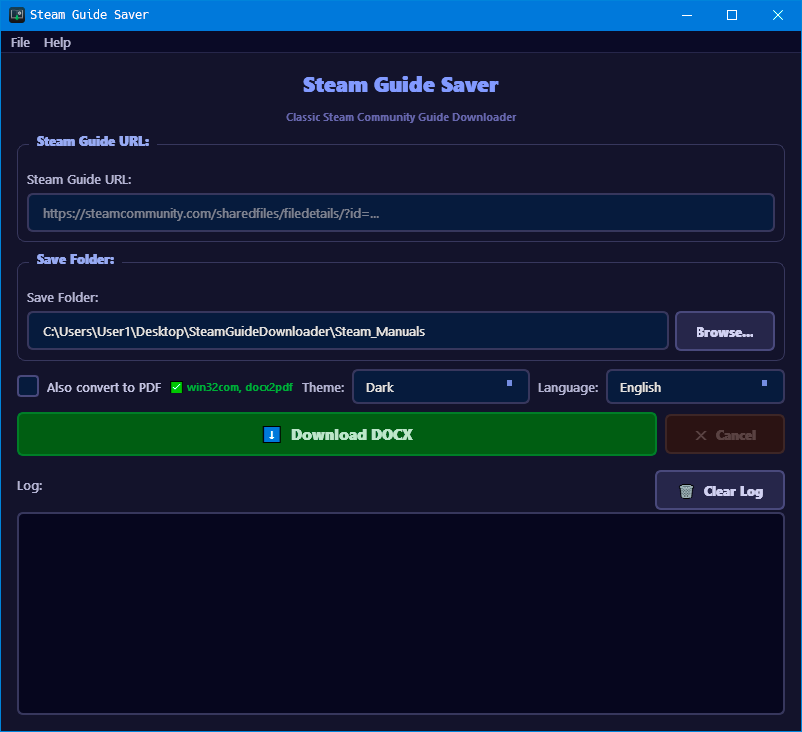
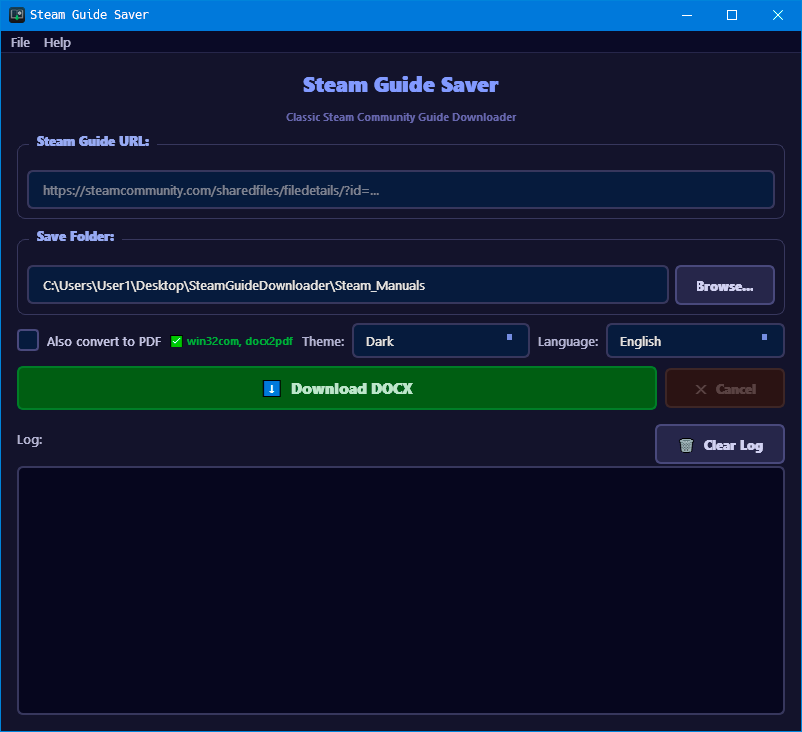
Add VirusTotal and SteamGuides links; Remove duplicate labels from GUI; Update screenshots and README

Changed region(s): [[0.0, 0.2104, 0.9975, 0.7213]]

diff --git a/gui.py b/gui.py
@@ -98,9 +98,6 @@ class MainWindow(QMainWindow):
         self.url_group = url_group
         url_layout = QVBoxLayout(url_group)
 
-        self.lbl_url = QLabel()
-        url_layout.addWidget(self.lbl_url)
-
         self.url_input = QLineEdit()
         self.url_input.setPlaceholderText(
             "https://steamcommunity.com/sharedfiles/filedetails/?id=..."
@@ -120,9 +117,6 @@ class MainWindow(QMainWindow):
         path_group = QGroupBox()
         self.path_group = path_group
         path_layout = QVBoxLayout(path_group)
-
-        self.lbl_path = QLabel()
-        path_layout.addWidget(self.lbl_path)
 
         path_row = QHBoxLayout()
         self.path_input = QLineEdit()
@@ -348,9 +342,7 @@ class MainWindow(QMainWindow):
         self.title_label.setText(T("window_title"))
         self.subtitle_label.setText(T("app_subtitle"))
         self.url_group.setTitle(T("lbl_url"))
-        self.lbl_url.setText(T("lbl_url"))
         self.path_group.setTitle(T("lbl_path"))
-        self.lbl_path.setText(T("lbl_path"))
         self.btn_browse.setText(T("btn_browse"))
         self.btn_download.setText(T("btn_download"))
         self.btn_cancel.setText(T("btn_cancel"))

diff --git a/README.md b/README.md
@@ -9,6 +9,7 @@ with full formatting, images, tables, and hyperlinks preserved.
 ![PyQt6](https://img.shields.io/badge/GUI-PyQt6-green?logo=qt)
 ![License](https://img.shields.io/badge/License-MIT-yellow)
 ![Platform](https://img.shields.io/badge/Platform-Windows%20|%20Linux%20|%20Mac-lightgrey)
+[![VirusTotal](https://img.shields.io/badge/VirusTotal-Scan_Results-brightgreen)](https://www.virustotal.com/gui/file/9321c2f2c00958d930a5bdc3a00d32169bc8e0cc9e2626b78b8dd8ed418e6a25/detection)
 
 > 🇷🇺 [Описание на русском — ниже](#-описание-на-русском)
 
@@ -29,17 +30,21 @@ with full formatting, images, tables, and hyperlinks preserved.
 
 ## 📸 Screenshots
 
-### Dark Theme
-![Dark Theme](screenshots/dark.png)
+<details>
+<summary>🖼 Click to view screenshots</summary>
 
-### Light Theme
-![Light Theme](screenshots/light.png)
+<table>
+  <tr>
+    <td align="center"><b>Dark Theme</b><br><img src="screenshots/dark.png" width="400"></td>
+    <td align="center"><b>Light Theme</b><br><img src="screenshots/light.png" width="400"></td>
+  </tr>
+  <tr>
+    <td align="center"><b>Steam Theme</b><br><img src="screenshots/steam.png" width="400"></td>
+    <td align="center"><b>Cyberpunk Theme</b><br><img src="screenshots/cyberpunk.png" width="400"></td>
+  </tr>
+</table>
 
-### Steam Theme
-![Steam Theme](screenshots/steam.png)
-
-### Cyberpunk Theme
-![Cyberpunk Theme](screenshots/cyberpunk.png)
+</details>
 
 ## 🚀 Installation
 
@@ -147,6 +152,9 @@ steam-guide-saver/
     ├── clean.ps1
     └── clean.sh
 ```
+## 📖 Steam Guides
+
+- 🇬🇧 [Steam Guide (English)](https://steamcommunity.com/sharedfiles/filedetails/?id=3668298513)
 
 ## 📝 License
 
@@ -259,6 +267,10 @@ https://steamcommunity.com/sharedfiles/filedetails/?id=XXXXXXXXX
 | Тёмная | Светлая | Steam | Киберпанк |
 | :--- | :--- | :--- | :--- |
 | Глубокий синий | Чистый белый | Цвета Steam | Неон розовый/бирюзовый/зеленый |
+
+## 📖 Steam Guides
+
+- 🇷🇺 [Руководство в Steam (Русский)](https://steamcommunity.com/sharedfiles/filedetails/?id=3668303547)
 
 ## 📝 Лицензия
 
